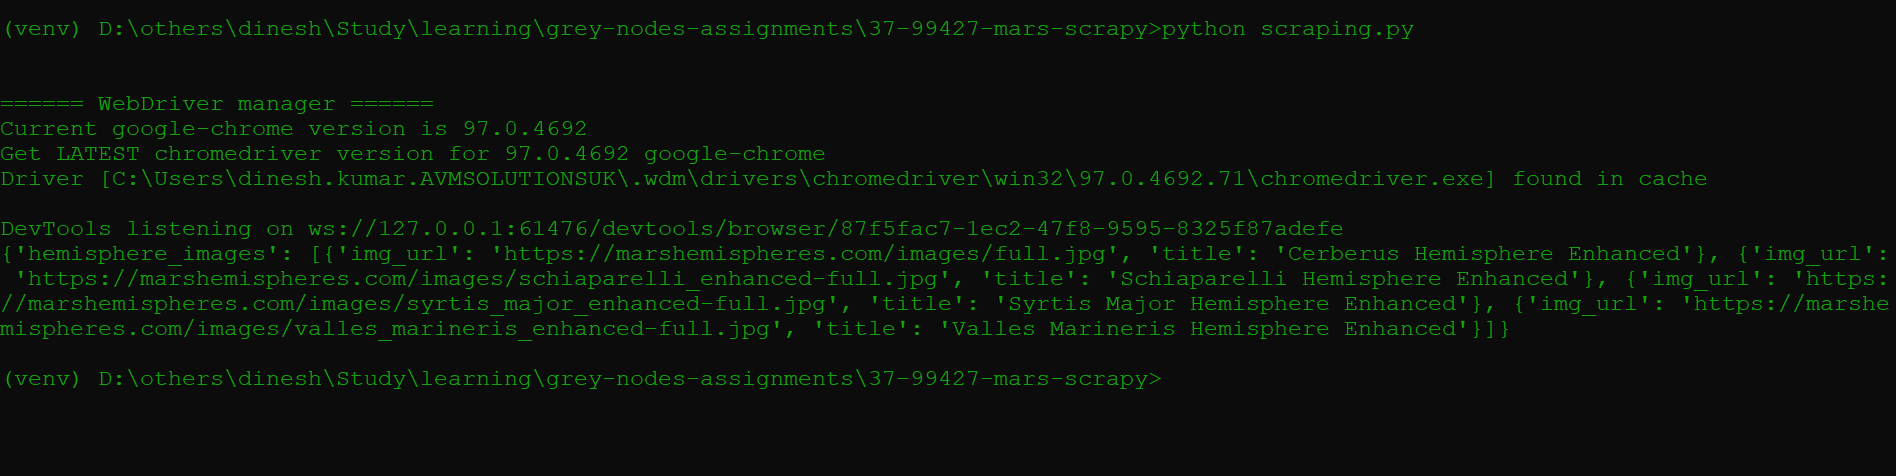
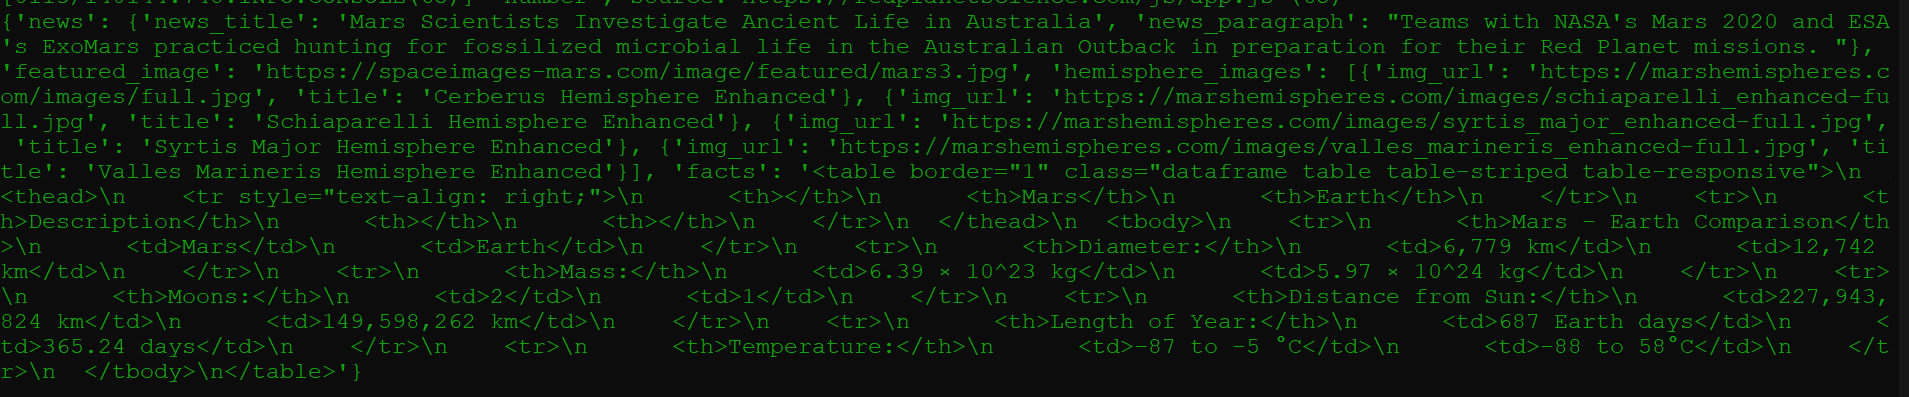
updated-mars-code

diff --git a/37-99427-mars-scrapy/templates/index.html b/37-99427-mars-scrapy/templates/index.html
@@ -2,37 +2,71 @@
 <html lang="en">
 
 <head>
-    <meta charset="UTF-8">
-    <meta http-equiv="X-UA-Compatible" content="IE=edge">
-    <meta name="viewport" content="width=device-width, initial-scale=1.0">
-    <title>Mars image</title>
-    <link rel="stylesheet" href="https://maxcdn.bootstrapcdn.com/bootstrap/3.3.7/css/bootstrap.min.css">
+    <meta charset="UTF-8" />
+    <meta name="viewport" content="width=device-width, initial-scale=1.0" />
+    <meta http-equiv="X-UA-Compatible" content="ie=edge" />
+    <title>Mission to Mars</title>
+    <link rel="stylesheet" href="https://maxcdn.bootstrapcdn.com/bootstrap/3.3.7/css/bootstrap.min.css" />
 </head>
 
 <body>
     <div class="container">
+        <!-- Add Jumbotron to Header -->
         <div class="jumbotron text-center">
-            <h1>Mars Hemisphere App</h1>
-            <p><a class="btn btn-primary btn-md" href="/scrape_data" role="button">Scrape Data</a></p>
+            <h1>Mission to Mars</h1>
+            <!-- Add a button to activate scraping script -->
+            <p><a class="btn btn-primary btn-lg" href="/scrape" role="button">Scrape New Data</a></p>
         </div>
-        <!-- Hemisphere images -->
-        <div class="col-12">
-            <h2 class="text-center">Mars Hemispheres</h2>
-            <div class="row" id="hemisphere-images">
-                {% for hemisphere in mars_img.hemisphere_images %}
-                <div class="col-xs-6 col-sm-3">
-                    <div class="thumbnail">
-                        <img src="{{ hemisphere.img_url }}" class="img-thumbnail" />
-                        <div class="caption">
-                            <p>{{ hemisphere.title }}</p>
-                        </div>
+
+        <!-- Add section for Mars News -->
+        <div class="row" id="mars-news">
+            <div class="col-md-12">
+                <div class="media">
+                    <div class="media-body">
+                        <h2>Latest Mars News</h2>
+                        <h4 class="media-heading">{{ mars.news.news_title }}</h4>
+                        <p>{{ mars.news.news_paragraph }}</p>
                     </div>
                 </div>
-                {% endfor %}
             </div>
         </div>
-    </div>
 
+        <!-- Section for Featured Image and Facts table -->
+        <div class="row" id="mars-featured-image">
+            <div class="col-md-8">
+                <h2>Featured Mars Image</h2>
+
+                <!-- if images is False/None/non-existent, then default to error message -->
+                <img src="{{mars.featured_image | default('static/images/error.png', true) }}" class="img-responsive" alt="Responsive image" />
+            </div>
+
+            <div class="col-md-4">
+                <!-- Mars Facts -->
+                <div class="row" id="mars-facts">
+                    <h4>Mars Facts</h4>
+                    {{ mars.facts | safe }}
+                </div>
+            </div>
+        </div>
+
+        <!-- Section for Mars Hemispheres -->
+        <div class="row" id="mars-hemispheres">
+            <div class="page-header">
+                <h2 class="text-center">Mars Hemispheres</h2>
+            </div>
+
+            {% for hemisphere in mars.hemisphere_images %}
+            <div class="col-md-6">
+                <div class="thumbnail">
+                    <img src="{{hemisphere.img_url | default('static/images/error.png', true)}}" alt="...">
+                    <div class="caption">
+                        <h3>{{hemisphere.title}}</h3>
+                    </div>
+                </div>
+            </div>
+            {% endfor %}
+        </div>
+    </div>
 </body>
 
 </html>

diff --git a/37-99427-mars-scrapy/scraping.py b/37-99427-mars-scrapy/scraping.py
@@ -12,12 +12,66 @@ def scrape_all():
 
     # store result in dict
     data = {
-        "hemisphere_images": hemisphere_images(browser)
+        "news": mars_news(browser),
+        "featured_image": featured_image(browser),
+        "hemisphere_images": hemisphere_images(browser),
+        "facts": mars_facts(browser)
     }
 
     # stop browser and return data
     browser.quit()
     return data
+
+
+def mars_news(browser):
+    
+    # Visit the mars nasa news site
+    url = 'https://redplanetscience.com/'
+    browser.visit(url)
+
+    # Optional delay for loading the page
+    browser.is_element_present_by_css('div.list_text', wait_time=1)
+
+
+    # Convert the browser html to a soup object and then quit the browser
+    html = browser.html
+    news_soup = soup(html, 'html.parser')
+
+    slide_elem = news_soup.select_one('div.list_text')
+
+    slide_elem.find('div', class_='content_title')
+
+
+
+    # Use the parent element to find the first a tag and save it as `news_title`
+    news_title = slide_elem.find('div', class_='content_title').get_text()
+    # Use the parent element to find the paragraph text
+    news_p = slide_elem.find('div', class_='article_teaser_body').get_text()
+
+    news = {"news_title": news_title, "news_paragraph": news_p}
+
+    return news
+
+
+def featured_image(browser):
+    # Visit URL
+    url = 'https://spaceimages-mars.com'
+    browser.visit(url)
+    # Find and click the full image button
+    full_image_elem = browser.find_by_tag('button')[1]
+    full_image_elem.click()
+
+    # Parse the resulting html with soup
+    html = browser.html
+    img_soup = soup(html, 'html.parser')
+
+    # find the relative image url
+    img_url_rel = img_soup.find('img', class_='fancybox-image').get('src')
+
+    # Use the base url to create an absolute url
+    img_url = f'https://spaceimages-mars.com/{img_url_rel}'
+    
+    return img_url
 
 def hemisphere_images(browser):
 
@@ -50,6 +104,17 @@ def hemisphere_images(browser):
 
     
     return hemisphere_image_urls
+
+def mars_facts(browser):
+
+    df = pd.read_html('https://galaxyfacts-mars.com')[0]
+
+
+    df.columns=['Description', 'Mars', 'Earth']
+    df.set_index('Description', inplace=True)
+
+    # add  bootstrap 
+    return df.to_html(classes = "table table-striped table-responsive")
 
 if __name__ == '__main__':
     scrape_all()

diff --git a/37-99427-mars-scrapy/app.py b/37-99427-mars-scrapy/app.py
@@ -15,11 +15,11 @@ mongo = PyMongo(app)
 @app.route("/")
 def index():
     mars_hemisphere_image = mongo.db.data.find_one()
-    return render_template("index.html", mars_img = mars_hemisphere_image)
+    return render_template("index.html", mars = mars_hemisphere_image)
 
 
 # Adding scrap data
-@app.route("/scrape_data")
+@app.route("/scrape")
 def scrape_data():
     # this fucntion recall scrapping.py script and scrap the data
     mars_db = mongo.db.data
